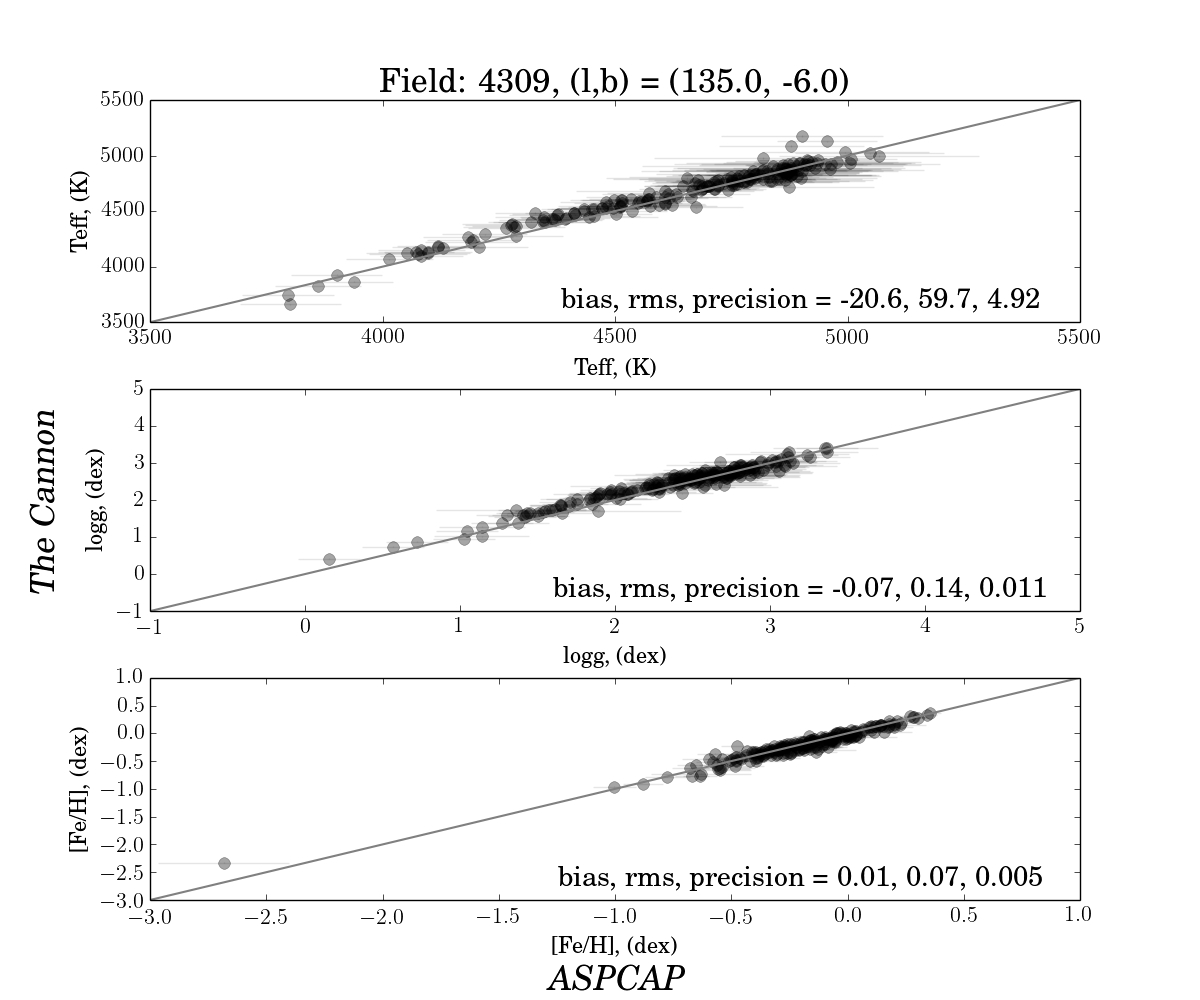
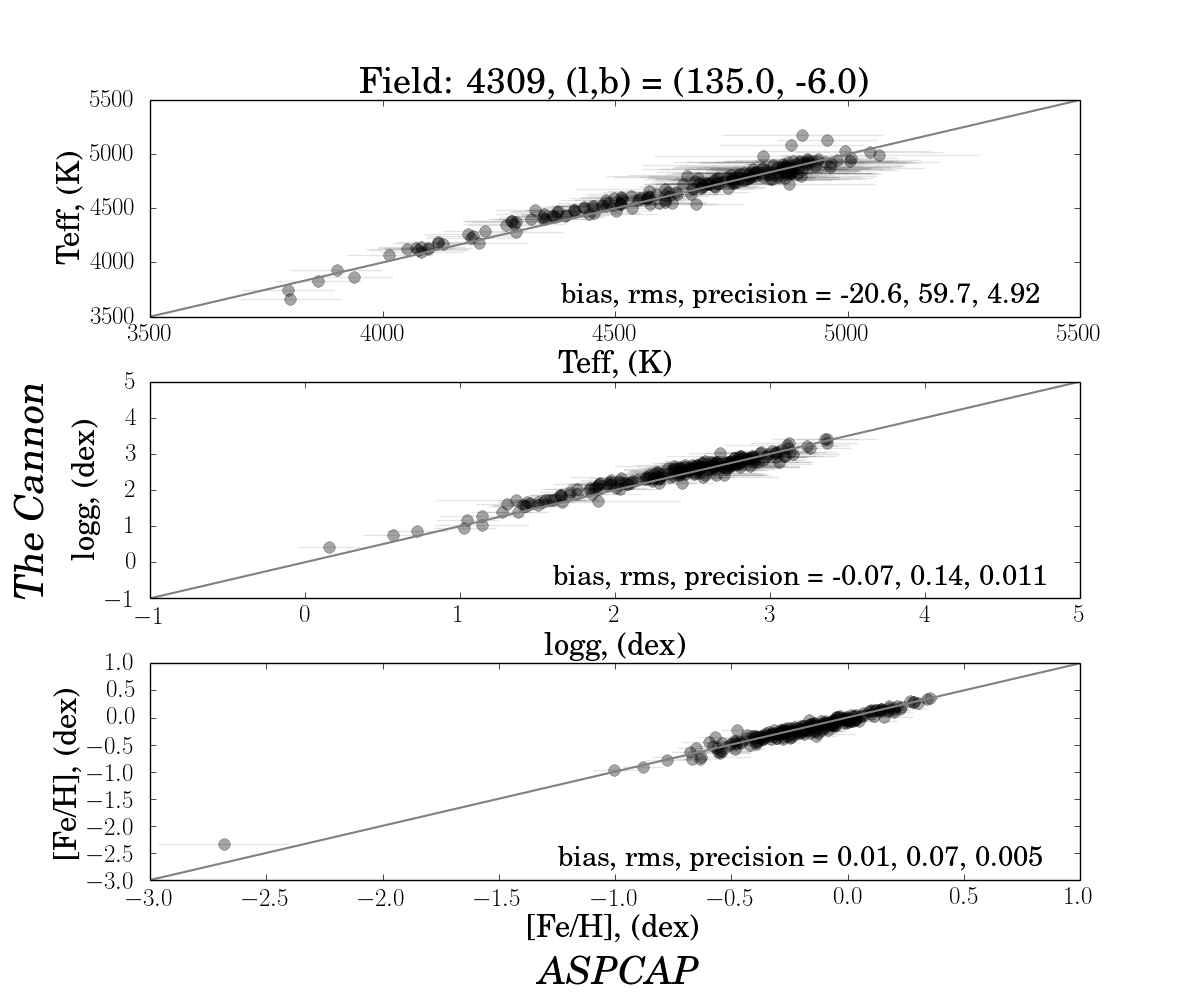
fig changes

diff --git a/documents/datadriven.tex b/documents/datadriven.tex
@@ -832,7 +832,7 @@ These \figurenames\ illustrate that our approach to continuum normalization work
 \label{fig:lowsnr}
 \end{figure}
 
-%makeplot_fits_SNRtest.py in /play but changed to makeplot_fits_SNRtest_bw.py
+%makeplot_fits_SNRtest.py in /play but changed to makeplot_fits_SNRtest_bw_6panel.py
 \begin{figure}[!h]
 \centering
 \includegraphics[scale=0.25]{./plots/SNR100to200.png}
